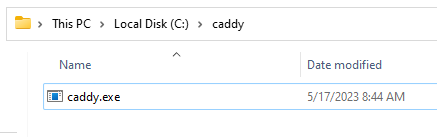
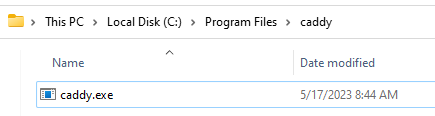
Change caddy install path
Change caddy install path to under Program Files per recommendation from nielsvanvelzen

diff --git a/docs/general/quick-start/windows.md b/docs/general/quick-start/windows.md
@@ -120,11 +120,11 @@ A reverse proxy is a server that sits in front of other services and forwards cl
 
     ![Caddy Download](/images/docs/quick-start/windows/caddyinst-1.png)
 
-3. Create a new folder under `C:\` and name it `caddy`
+3. Create a new folder under `C:\Program Files` and name it `caddy`. Confirm the operation if prompted.
 
     ![Create Caddy folder](/images/docs/quick-start/windows/caddyinst-2.png)
 
-4. move the downloaded exe file to the folder and rename it to `caddy.exe`
+4. move the downloaded exe file to the folder and rename it to `caddy.exe`. Confirm the operation if prompted.
 
     ![Place Caddy exe](/images/docs/quick-start/windows/caddyinst-3.png)
 
@@ -137,7 +137,7 @@ A reverse proxy is a server that sits in front of other services and forwards cl
 
     ![Environment Variables](/images/docs/quick-start/windows/caddyinst-5.png)
 
-8. Click on `New` in the popup and enter `C:\caddy`, then click `OK` on the bottom right
+8. Click on `New` in the popup and enter `C:\Program Files\caddy`, then click `OK` on the bottom right. DO NOT change the other entries as messing with them can result in broken programs and/or a broken system.
 
     ![New PATH value](/images/docs/quick-start/windows/caddyinst-6.png)
 
@@ -210,12 +210,11 @@ A reverse proxy is a server that sits in front of other services and forwards cl
 
 ### Reverse Proxy with Caddy
 
-1. Go to your caddy folder (the one you created in the Install Caddy section which should be `C:\caddy`)
-2. create a text file named `CaddyFile` (Remove the .txt suffix). You will be asked to confirm if you want to change the file extension, click `Yes`.
+1. Create a text file named `Caddyfile` (Remove the .txt suffix) on your computer. This file is temporary and can be anywhere. You will be asked to confirm if you want to change the file extension, click `Yes`.
 
     ![file extension change confirmation](/images/docs/quick-start/windows/reverseproxy-1.png)
 
-3. Open the file in a text editor and paste in config from below depending on your needs. Replace `<your (sub)domain here>` with the domain you just created with DuckDNS.
+2. Open the file in a text editor and paste in config from below depending on your needs. Replace `<your (sub)domain here>` with the domain you just created with DuckDNS.
     * if you want your jellyfin instance behind the bare domain (subdomain.example.com / jellyfin.example.com):
 
         ```Caddyfile
@@ -233,7 +232,10 @@ A reverse proxy is a server that sits in front of other services and forwards cl
         reverse_proxy /jellyfin/* 127.0.0.1:8096
         ```
 
-4. save the file and close the text editor
+3. Save the file and close the text editor
+
+4. Copy this file to your caddy folder (the one you created in the Install Caddy section which should be `C:\Program Files\caddy`). Confirm the operation if prompted.
+
 5. If you have chosen to use a subpath for Jellyfin, go to your Jellyfin dashboard (open [http://localhost:8096](http://localhost:8096) on your server, click the 3 bars on the top right then select `Dashboard`) and go to the `Networking` menu on the side bar. Then enter the subpath you have chosen to use and save. Then restart the Jellyfin server (Stop then start the server from the system tray icon)
 
     ![Networking Settings](/images/docs/quick-start/windows/reverseproxy-2.png)
@@ -248,7 +250,7 @@ A reverse proxy is a server that sits in front of other services and forwards cl
 10. Enter a descriptive Name and a description, one that you can identify in the future and click next
 11. Choose `When I log on` for the Task Trigger and click Next
 12. Choose `Start a program` for the Action
-13. Enter `C:\caddy\caddy.exe` in the Program/script field, `run` in the arguments field and `C:\caddy` in the Start in field, then click Next
+13. Enter `"C:\Program Files\caddy\caddy.exe"` in the Program/script field, `run` in the arguments field and `"C:\Program Files\caddy"` in the Start in field, then click Next. The parenthesis are required as the path contains a space.
 14. Check Open the Properties dialog checkbox and click Finish
 
     ![create caddy task](/images/docs/quick-start/windows/reverseproxy-4.png)
